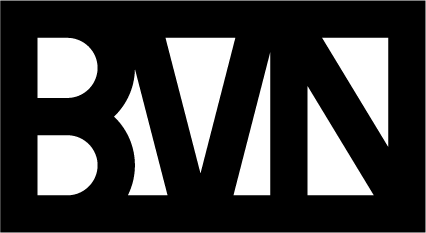
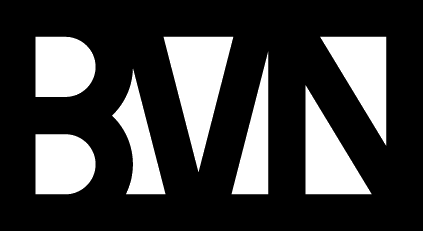
jQuery Transitions Edited

diff --git a/style/index.css b/style/index.css
@@ -15,9 +15,10 @@
   padding: 5px;
   padding-top: 20px;
   padding-bottom: 15px;
-  border-top: 2px solid white;
-  border-bottom: 2px solid white;
+  border-top: 2px solid black;
+  border-bottom: 2px solid black;
   z-index: 2;
+  display: none;
 }
 
 #loadingScreen {
@@ -27,9 +28,9 @@
   z-index: 5;
   width: 100%;
   height: 100%;
-/*  background: -moz-linear-gradient(top,  #000000 0%, #434343 100%);
+  background: -moz-linear-gradient(top,  #000000 0%, #434343 100%);
   background: -webkit-linear-gradient(top,  #000000 0%, #434343 100%);
-  background: linear-gradient(to bottom,  #000000 0%, #434343 100%);*/
+  background: linear-gradient(to bottom,  #000000 0%, #434343 100%);
 }
 
 .center {
@@ -37,7 +38,7 @@
     display: block;
     margin-left: auto;
     margin-right: auto;
-    top: 45%;
+    top: 41%;
     width: 50%;
 }
 
@@ -57,13 +58,13 @@ body {
 
 h1 {
   font-size: 1.2em;
-  color: white;
+  color: black;
   font-family: 'Advent Pro', san-serif;
 }
 
 p {
   font-size: 0.8em;
-  color: white;
+  color: black;
   font-family: 'Open Sans', sans-serif;
 }
 
@@ -170,6 +171,7 @@ p {
     transform:  translate(0px, 0px);
   }
 }
+
 .rotating {
   -webkit-animation: rotating 0.4s ease alternate-reverse infinite;
   -moz-animation: rotating 0.4s ease alternate-reverse infinite;

diff --git a/index.html b/index.html
@@ -30,7 +30,7 @@
 <div class = "threeScene" id="container" style="z-index: 0; position: absolute; left:0px; top:0px; width: 100%px; height:100%px"></div>
 
 <div id="title">
-  <img style="width:60px;" src="img/BVN_White_Small.png">
+  <img style="width:60px;" src="img/BVN_Black_Small.png">
   <h1 id="titleText">Systems Reef<br>Robotic Weaving Routine</h1>
   <!-- <p id="paragraph"> <br></p> -->
 </div>

diff --git a/js/shtlk02.js b/js/shtlk02.js
@@ -192,8 +192,8 @@ function init(){
   };
 
   manager.onLoad = function ( ) {
-    $("#loadingScreen").delay(1000).fadeOut(500);
-    $('#title').delay(3000).fadeIn(500);
+    $("#loadingScreen").fadeOut(500);
+    $('#title').delay(1500).fadeIn(1500);
     animate();
   };
 
